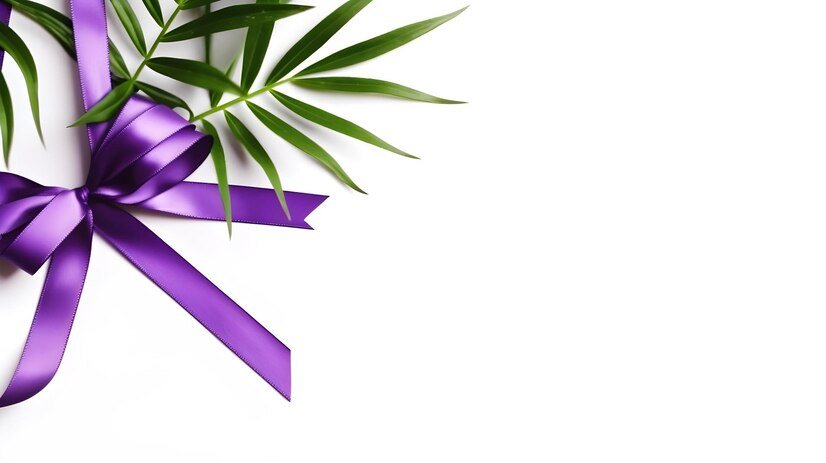
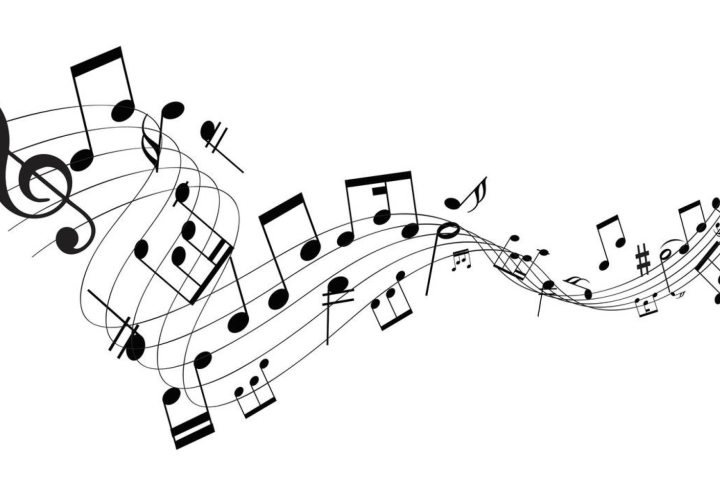
Fix ressources

Changed region(s): [[0.0, 0.0, 1.0, 0.9374], [0.55, 0.0, 0.5806, 0.0302]]

diff --git a/src/main/java/fjkm/agf/slidegenerator/litorjiacomponents/Endriny.java b/src/main/java/fjkm/agf/slidegenerator/litorjiacomponents/Endriny.java
@@ -1,6 +1,8 @@
 package fjkm.agf.slidegenerator.litorjiacomponents;
 
+import java.util.Comparator;
 import java.util.HashMap;
+import java.util.List;
 
 import org.apache.poi.xslf.usermodel.XMLSlideShow;
 
@@ -31,6 +33,19 @@ public class Endriny {
     double fontSizeHira;
     double imageOpacity;
     
+    /** Sections by tapany number; the numbering in litorjia.json can have gaps. */
+    private List<Tapany> sectionsInOrder(){
+        return this.getFizarana().keySet().stream()
+            .sorted(Comparator.comparingInt((String key) -> Integer.parseInt(key.substring("tapany_".length()))))
+            .map(this.getFizarana()::get)
+            .toList();
+    }
+
+    /** litorjia.json may break a title over two lines, so line breaks are ignored. */
+    private static boolean hasTitle(Tapany tapany, String title){
+        return tapany.getTitle().replace("\n", "").equals(title);
+    }
+
     public String turnArrayToUniqueString(String[] vakiteny){
         String res = "";
         for (String elt : vakiteny) {
@@ -56,7 +71,6 @@ public class Endriny {
 
         //ADDING SLIDE
         int i = 0;
-        String key = "tapany_";
         HiraFihirana hiraFihirana;
         hiraFidirana = hiraFidirana.toLowerCase().replace(" ", "_");
         hiraFihirana = hiraRehetra.getLisitraHira().get(hiraFidirana);
@@ -70,9 +84,8 @@ public class Endriny {
         slide.setImageOpacity(this.getImageOpacity());
         slide.setText(ObjectUtility.sexifyToUpperCase(hiraFidirana));
         slide.createSlide(ppt, this.getHiraPicture());
-        for(int j = 1; j <= this.getFizarana().size(); j++){
-            Tapany temp = this.getFizarana().get(key + j);
-            if(temp.getTitle().equals("Fiderana an'Andriamanitra") && temp.isVakiteny()){
+        for(Tapany temp : this.sectionsInOrder()){
+            if(hasTitle(temp, "Fiderana an'Andriamanitra") && temp.isVakiteny()){
                 slide.setText(vakitenyFiderana);
                 slide.createSlide(ppt, this.getVakitenyPicture());
             } else if(temp.getTitle().equals("Fotoana ho an'ny ankizy sy ny Tanora")){
@@ -136,7 +149,7 @@ public class Endriny {
                     slide.createSlide(ppt, "");
                     i++;
                 }
-            }else if(temp.getTitle().equals("Asan'\nAndriamanitra")){
+            }else if(hasTitle(temp, "Asan'Andriamanitra")){
                 slide.setText(temp.getTitle().toUpperCase());
                 slide.createSlide(ppt, this.getAsanAndriamanitraPicture());
                 for( String elt : asanAndriamanitra){
@@ -165,7 +178,6 @@ public class Endriny {
     ) throws Exception{
 
         //ADDING SLIDE
-        String key = "tapany_";
         HiraFihirana hiraFihirana;
         hiraFidirana = hiraFidirana.toLowerCase().replace(" ", "_");
         hiraFihirana = hiraRehetra.getLisitraHira().get(hiraFidirana);
@@ -179,9 +191,8 @@ public class Endriny {
         slide.setImageOpacity(this.getImageOpacity());
         slide.setText(ObjectUtility.sexifyToUpperCase(hiraFidirana));
         slide.createSlide(ppt, this.getHiraPicture());
-        for(int j = 1; j <= this.getFizarana().size(); j++){
-            Tapany temp = this.getFizarana().get(key + j);
-            if(temp.getTitle().equals("Fiderana an'Andriamanitra") && temp.isVakiteny()){
+        for(Tapany temp : this.sectionsInOrder()){
+            if(hasTitle(temp, "Fiderana an'Andriamanitra") && temp.isVakiteny()){
                 slide.setText(vakitenyFiderana);
                 slide.createSlide(ppt, this.getVakitenyPicture());
             } else if(temp.getTitle().equals("Fotoana ho an'ny ankizy sy ny Tanora")){
@@ -222,7 +233,7 @@ public class Endriny {
                     slide.setText(elt);
                     slide.createSlide(ppt, "");
                 } 
-            }else if(temp.getTitle().equals("Asan'\nAndriamanitra")){
+            }else if(hasTitle(temp, "Asan'Andriamanitra")){
                 slide.setText(temp.getTitle().toUpperCase());
                 slide.createSlide(ppt, this.getAsanAndriamanitraPicture());
                 for( String elt : asanAndriamanitra){

diff --git a/src/test/java/fjkm/agf/slidegenerator/configuration/LitorjiaFJKMTest.java b/src/test/java/fjkm/agf/slidegenerator/configuration/LitorjiaFJKMTest.java
@@ -1,0 +1,76 @@
+package fjkm.agf.slidegenerator.configuration;
+
+import static org.junit.jupiter.api.Assertions.assertTrue;
+
+import java.io.InputStream;
+import java.nio.file.Files;
+import java.nio.file.Path;
+import java.util.ArrayList;
+import java.util.List;
+
+import org.apache.poi.xslf.usermodel.XMLSlideShow;
+import org.apache.poi.xslf.usermodel.XSLFShape;
+import org.apache.poi.xslf.usermodel.XSLFSlide;
+import org.apache.poi.xslf.usermodel.XSLFTextShape;
+import org.junit.jupiter.api.io.TempDir;
+import org.junit.jupiter.params.ParameterizedTest;
+import org.junit.jupiter.params.provider.ValueSource;
+
+class LitorjiaFJKMTest {
+
+    private static final String VAKITENY_FIDERANA = "Salamo 23";
+    private static final String ASAN_ANDRIAMANITRA = "Andalana fitsapana";
+
+    @TempDir
+    Path outputDir;
+
+    // endriny_1 titles this section "Fiderana an'\nAndriamanitra"; the others omit the line break.
+    @ParameterizedTest
+    @ValueSource(strings = { "endriny_1", "endriny_2", "endriny_3" })
+    void vakitenyFideranaAppearsWhateverTheTitleSpelling(String endriny) throws Exception {
+        assertTrue(generateProgramTexts(endriny).contains(VAKITENY_FIDERANA.toUpperCase()),
+                "Reading should have its own slide in " + endriny);
+    }
+
+    // endriny_2 titles this section "Asan'\nAndriamanitra"; the others omit the line break.
+    @ParameterizedTest
+    @ValueSource(strings = { "endriny_2", "endriny_3", "endriny_4", "fahafatesana" })
+    void asanAndriamanitraLinesAppearWhateverTheTitleSpelling(String endriny) throws Exception {
+        assertTrue(generateProgramTexts(endriny).contains(ASAN_ANDRIAMANITRA.toUpperCase()),
+                "Typed line should have its own slide in " + endriny);
+    }
+
+    // These have gaps in their tapany numbering, and their last section comes after the gaps.
+    @ParameterizedTest
+    @ValueSource(strings = { "endriny_4", "fahafatesana" })
+    void numberingGapsDoNotLoseLaterSections(String endriny) throws Exception {
+        assertTrue(generateProgramTexts(endriny).contains("FIRAVANA"),
+                "Last section should be generated in " + endriny);
+    }
+
+    private List<String> generateProgramTexts(String endriny) throws Exception {
+        LitorjiaFJKM litorjia = new LitorjiaFJKM();
+        litorjia.init();
+        litorjia.generateProgram(
+                "programa", "Calibri", "Calibri", outputDir.toString(),
+                VAKITENY_FIDERANA, "Matio 5:1-12", "Apostolika", endriny,
+                "ffpm_001", "", "",
+                new String[] { "Jaona 1:1" },
+                new String[] { "" },
+                new String[] { ASAN_ANDRIAMANITRA },
+                80.0, 80.0, 30.0, false);
+
+        List<String> texts = new ArrayList<>();
+        try (InputStream in = Files.newInputStream(outputDir.resolve("programa.pptx"));
+                XMLSlideShow ppt = new XMLSlideShow(in)) {
+            for (XSLFSlide slide : ppt.getSlides()) {
+                for (XSLFShape shape : slide.getShapes()) {
+                    if (shape instanceof XSLFTextShape textShape) {
+                        texts.add(textShape.getText().trim());
+                    }
+                }
+            }
+        }
+        return texts;
+    }
+}
